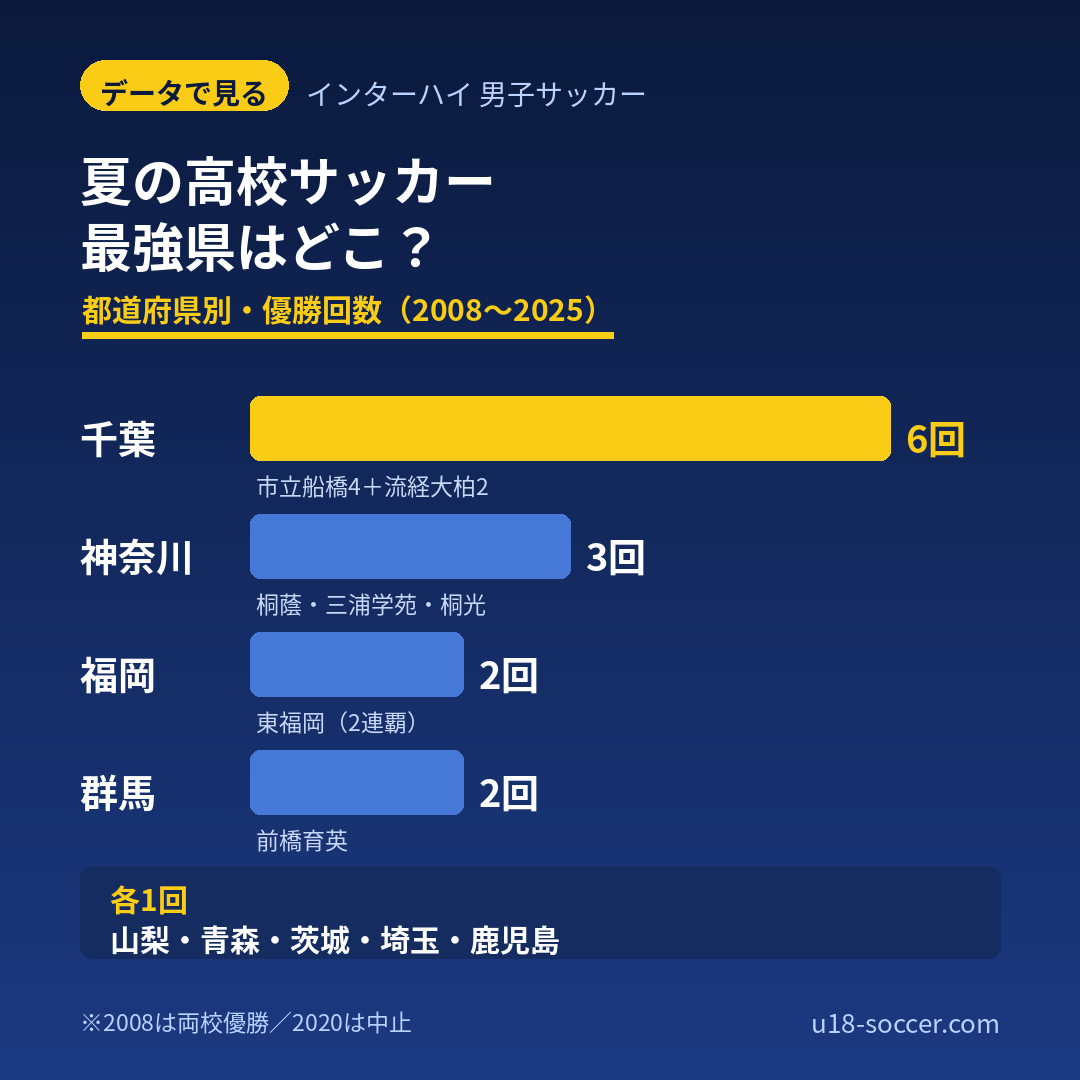
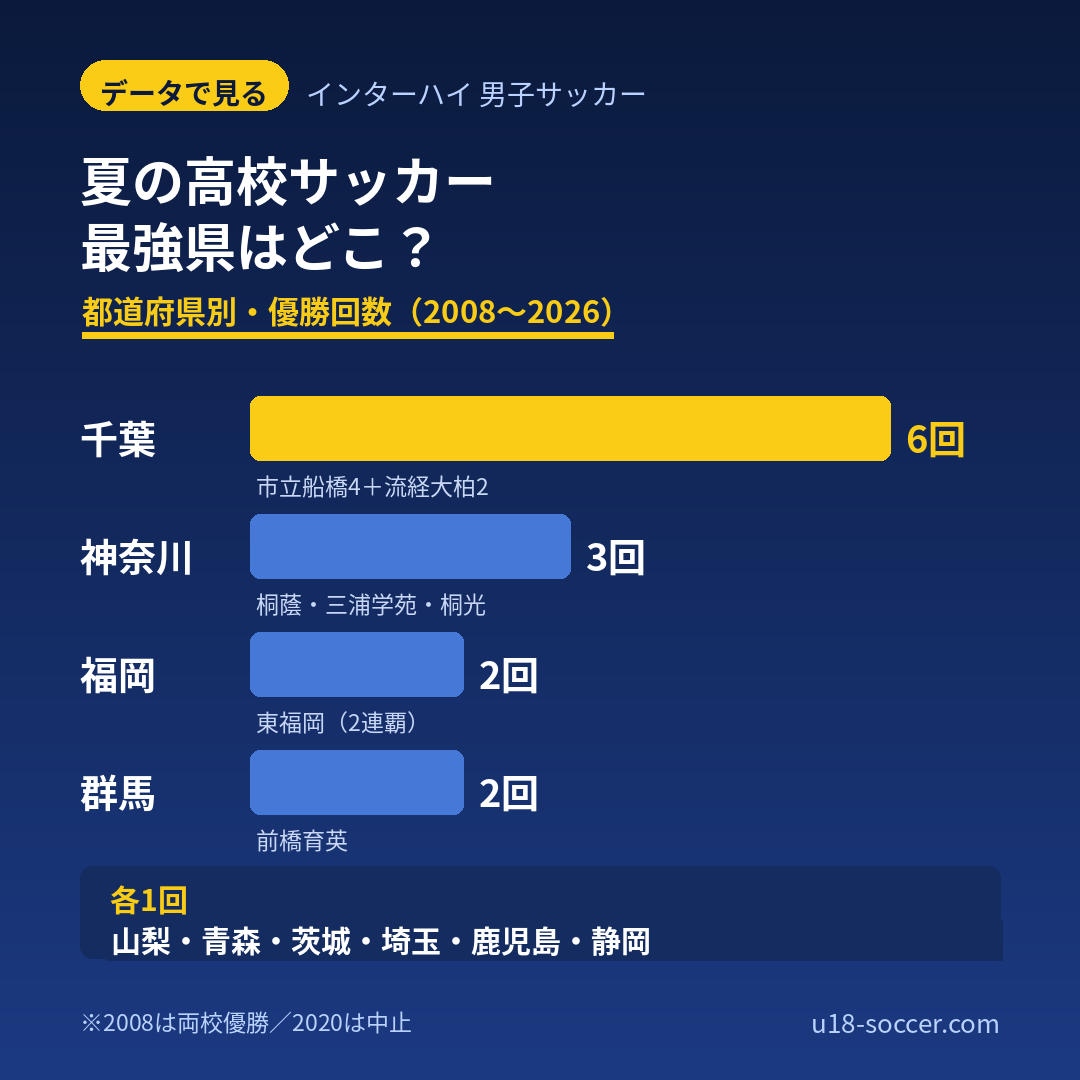
優勝校　県

diff --git a/tournaments/interhigh-history/index.html b/tournaments/interhigh-history/index.html
@@ -150,8 +150,8 @@
           <li>夏（インターハイ）と冬（選手権）の<strong>同一年度2冠</strong>は極めて困難で、2025年度の神村学園が史上6校目</li>
         </ul>
 <figure style="margin:24px 0;text-align:center;">
-  <img src="/img/blog/interhigh-pref-championships.png" alt="インターハイ男子サッカー都道府県別優勝回数（2008〜2025）。千葉6回（市立船橋4＋流経大柏2）が最多、神奈川3回（桐蔭・三浦学苑・桐光）、福岡2回（東福岡の2連覇）、群馬2回（前橋育英）、山梨・青森・茨城・埼玉・鹿児島が各1回。2008年は両校優勝、2020年は中止" width="1080" height="1080" loading="lazy" style="width:100%;max-width:520px;height:auto;border-radius:10px;">
-  <figcaption style="font-size:0.85rem;color:var(--text-light,#666);margin-top:6px;">都道府県別のインターハイ優勝回数（2008〜2025）</figcaption>
+  <img src="/img/blog/interhigh-pref-championships.png" alt="インターハイ男子サッカー都道府県別優勝回数（2008〜2026）。千葉6回（市立船橋4＋流経大柏2）が最多、神奈川3回（桐蔭・三浦学苑・桐光）、福岡2回（東福岡の2連覇）、群馬2回（前橋育英）、山梨・青森・茨城・埼玉・鹿児島・静岡が各1回。2008年は両校優勝、2020年は中止" width="1080" height="1080" loading="lazy" style="width:100%;max-width:520px;height:auto;border-radius:10px;">
+  <figcaption style="font-size:0.85rem;color:var(--text-light,#666);margin-top:6px;">都道府県別のインターハイ優勝回数（2008〜2026）</figcaption>
 </figure>
       </section>
 
